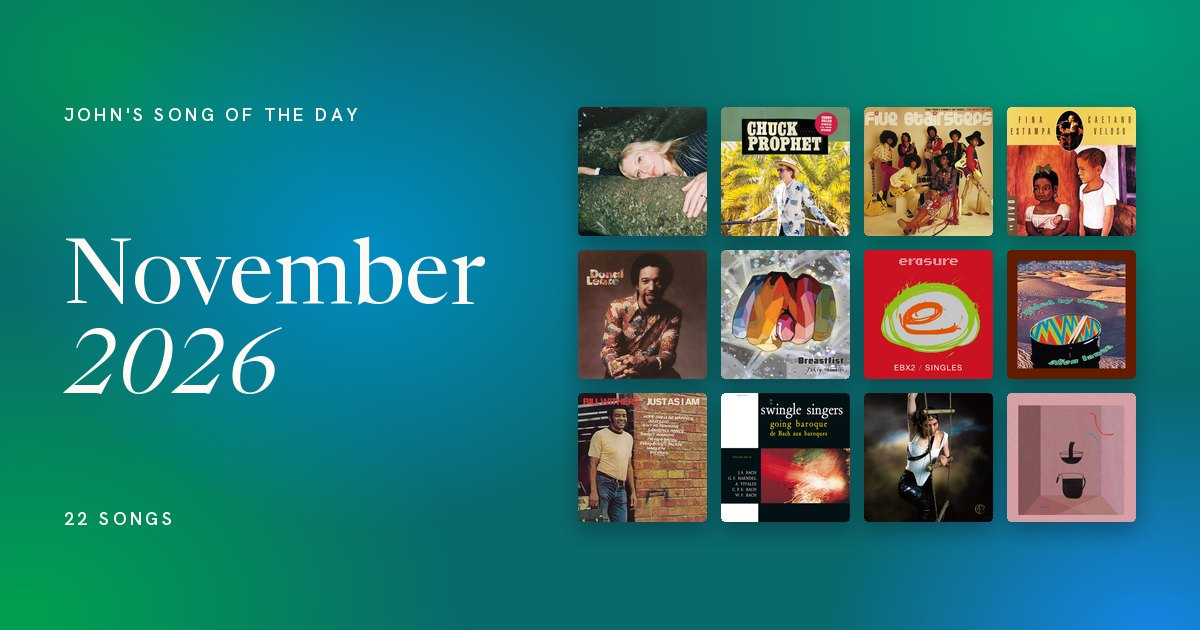
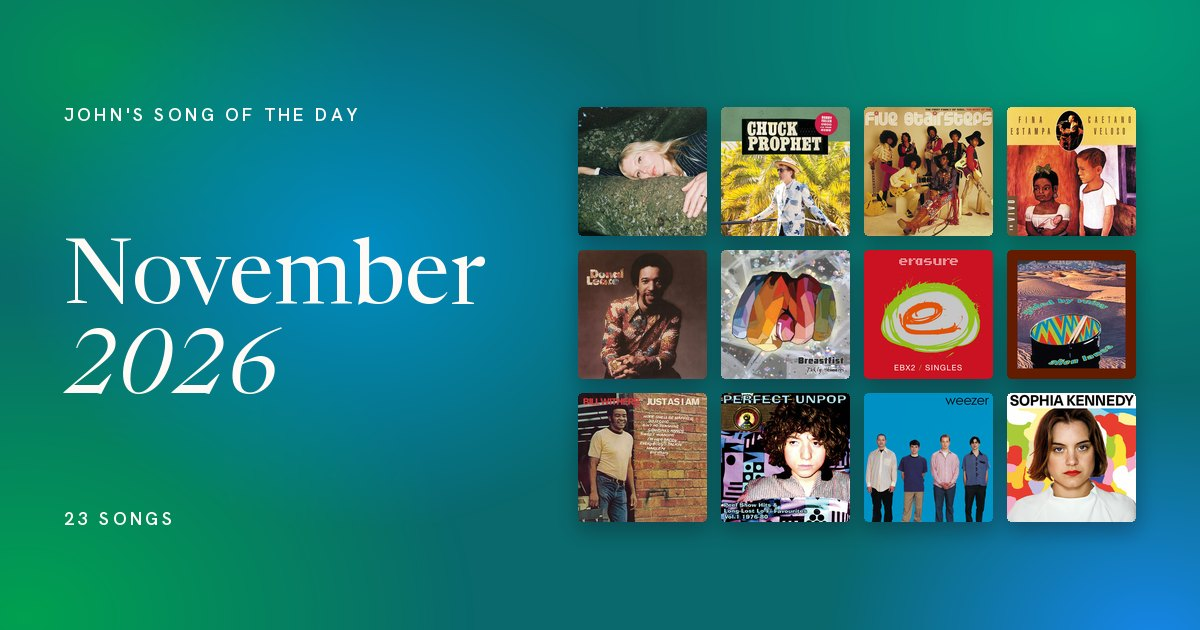
Song moods and genres: John's songs first

Changed region(s): [[0.5858, 0.6032, 0.9558, 0.8444], [0.0617, 0.8143, 0.0925, 0.8444]]

diff --git a/songs/today/index.html b/songs/today/index.html
@@ -3,24 +3,24 @@
 <head>
 <meta charset="utf-8">
 <meta name="viewport" content="width=device-width,initial-scale=1">
-<title>Für Hildegard von Bingen · John's Song of the Day</title>
-<meta name="description" content="Devendra Banhart · John&#x27;s Song of the Day, Sunday 22 November 2026">
+<title>Being Special · John's Song of the Day</title>
+<meta name="description" content="Sophia Kennedy · John&#x27;s Song of the Day, Monday 23 November 2026">
 <link rel="canonical" href="https://cooperking.github.io/songs/today/">
 <meta property="og:type" content="music.song">
 <meta property="og:site_name" content="John's Song of the Day">
-<meta property="og:title" content="Für Hildegard von Bingen">
-<meta property="og:description" content="Devendra Banhart · John&#x27;s Song of the Day, Sunday 22 November 2026">
+<meta property="og:title" content="Being Special">
+<meta property="og:description" content="Sophia Kennedy · John&#x27;s Song of the Day, Monday 23 November 2026">
 <meta property="og:url" content="https://cooperking.github.io/songs/today/">
-<meta property="og:image" content="https://cooperking.github.io/songs/22-11-2026/card.jpg">
-<meta property="og:image:secure_url" content="https://cooperking.github.io/songs/22-11-2026/card.jpg">
+<meta property="og:image" content="https://cooperking.github.io/songs/23-11-2026/card.jpg">
+<meta property="og:image:secure_url" content="https://cooperking.github.io/songs/23-11-2026/card.jpg">
 <meta property="og:image:type" content="image/jpeg">
 <meta property="og:image:width" content="1200">
 <meta property="og:image:height" content="630">
-<meta property="og:image:alt" content="Für Hildegard von Bingen by Devendra Banhart">
-<meta name="twitter:image" content="https://cooperking.github.io/songs/22-11-2026/card.jpg">
+<meta property="og:image:alt" content="Being Special by Sophia Kennedy">
+<meta name="twitter:image" content="https://cooperking.github.io/songs/23-11-2026/card.jpg">
 <meta name="twitter:card" content="summary_large_image">
-<meta name="twitter:title" content="Für Hildegard von Bingen">
-<meta name="twitter:description" content="Devendra Banhart · John&#x27;s Song of the Day, Sunday 22 November 2026">
+<meta name="twitter:title" content="Being Special">
+<meta name="twitter:description" content="Sophia Kennedy · John&#x27;s Song of the Day, Monday 23 November 2026">
 <meta name="theme-color" content="#09696d">
 <link rel="icon" type="image/png" sizes="96x96" href="https://cooperking.github.io/songs/favicon-96.png?v=2">
 <link rel="icon" type="image/png" sizes="192x192" href="https://cooperking.github.io/songs/icon-192.png?v=2">
@@ -28,6 +28,6 @@
 <script>if (!/bot|crawl|spider|preview|facebookexternalhit|facebot|whatsapp|telegram|slack|discord|linkedin|pinterest|embedly|iframely|skype|viber|signal|vkshare|redditbot|applebot|google|bing/i.test(navigator.userAgent)) location.replace("../" + location.search + "#today");</script>
 </head>
 <body style="font-family: Georgia, serif; padding: 24px;">
-<p><a href="../#today">Für Hildegard von Bingen by Devendra Banhart</a>, John's Song of the Day for Sunday 22 November 2026.</p>
+<p><a href="../#today">Being Special by Sophia Kennedy</a>, John's Song of the Day for Monday 23 November 2026.</p>
 </body>
 </html>

diff --git a/songs/23-11-2026/index.html b/songs/23-11-2026/index.html
@@ -1,0 +1,33 @@
+<!doctype html>
+<html lang="en">
+<head>
+<meta charset="utf-8">
+<meta name="viewport" content="width=device-width,initial-scale=1">
+<title>Being Special · John's Song of the Day</title>
+<meta name="description" content="Sophia Kennedy · John&#x27;s Song of the Day, Monday 23 November 2026">
+<link rel="canonical" href="https://cooperking.github.io/songs/23-11-2026/">
+<meta property="og:type" content="music.song">
+<meta property="og:site_name" content="John's Song of the Day">
+<meta property="og:title" content="Being Special">
+<meta property="og:description" content="Sophia Kennedy · John&#x27;s Song of the Day, Monday 23 November 2026">
+<meta property="og:url" content="https://cooperking.github.io/songs/23-11-2026/">
+<meta property="og:image" content="https://cooperking.github.io/songs/23-11-2026/card.jpg">
+<meta property="og:image:secure_url" content="https://cooperking.github.io/songs/23-11-2026/card.jpg">
+<meta property="og:image:type" content="image/jpeg">
+<meta property="og:image:width" content="1200">
+<meta property="og:image:height" content="630">
+<meta property="og:image:alt" content="Being Special by Sophia Kennedy">
+<meta name="twitter:image" content="https://cooperking.github.io/songs/23-11-2026/card.jpg">
+<meta name="twitter:card" content="summary_large_image">
+<meta name="twitter:title" content="Being Special">
+<meta name="twitter:description" content="Sophia Kennedy · John&#x27;s Song of the Day, Monday 23 November 2026">
+<meta name="theme-color" content="#09696d">
+<link rel="icon" type="image/png" sizes="96x96" href="https://cooperking.github.io/songs/favicon-96.png?v=2">
+<link rel="icon" type="image/png" sizes="192x192" href="https://cooperking.github.io/songs/icon-192.png?v=2">
+<link rel="apple-touch-icon" sizes="180x180" href="https://cooperking.github.io/songs/apple-touch-icon.png?v=2">
+<script>if (!/bot|crawl|spider|preview|facebookexternalhit|facebot|whatsapp|telegram|slack|discord|linkedin|pinterest|embedly|iframely|skype|viber|signal|vkshare|redditbot|applebot|google|bing/i.test(navigator.userAgent)) location.replace("../" + location.search + "#23-11-2026");</script>
+</head>
+<body style="font-family: Georgia, serif; padding: 24px;">
+<p><a href="../#23-11-2026">Being Special by Sophia Kennedy</a>, John's Song of the Day for Monday 23 November 2026.</p>
+</body>
+</html>

diff --git a/songs/11-2026/index.html b/songs/11-2026/index.html
@@ -4,12 +4,12 @@
 <meta charset="utf-8">
 <meta name="viewport" content="width=device-width,initial-scale=1">
 <title>November 2026 · John's Song of the Day</title>
-<meta name="description" content="22 songs for each day">
+<meta name="description" content="23 songs for each day">
 <link rel="canonical" href="https://cooperking.github.io/songs/11-2026/">
 <meta property="og:type" content="website">
 <meta property="og:site_name" content="John's Song of the Day">
 <meta property="og:title" content="November 2026">
-<meta property="og:description" content="22 songs for each day">
+<meta property="og:description" content="23 songs for each day">
 <meta property="og:url" content="https://cooperking.github.io/songs/11-2026/">
 <meta property="og:image" content="https://cooperking.github.io/songs/11-2026/card.jpg">
 <meta property="og:image:secure_url" content="https://cooperking.github.io/songs/11-2026/card.jpg">
@@ -26,6 +26,6 @@
 <script>if (!/bot|crawl|spider|preview|facebookexternalhit|facebot|whatsapp|telegram|slack|discord|linkedin|pinterest|embedly|iframely|skype|viber|signal|vkshare|redditbot|applebot|google|bing/i.test(navigator.userAgent)) location.replace("../" + location.search + "#11-2026");</script>
 </head>
 <body style="font-family: Georgia, serif; padding: 24px;">
-<p><a href="../#11-2026">November 2026</a>: 22 songs for each day</p>
+<p><a href="../#11-2026">November 2026</a>: 23 songs for each day</p>
 </body>
 </html>

diff --git a/songs/index.html b/songs/index.html
@@ -4,11 +4,11 @@
 <meta charset="utf-8">
 <meta name="sotd-build" content="bda6aaf01d7f">
 <meta name="viewport" content="width=device-width, initial-scale=1, viewport-fit=cover">
-<meta name="description" content="A song a day, 286 so far">
+<meta name="description" content="A song a day, 287 so far">
 <meta name="theme-color" content="#ec135b">
 <meta property="og:type" content="website">
 <meta property="og:title" content="John’s Song of the Day">
-<meta property="og:description" content="A song a day, 286 so far">
+<meta property="og:description" content="A song a day, 287 so far">
 <meta property="og:url" content="https://cooperking.github.io/songs/">
 <meta property="og:image" content="https://cooperking.github.io/songs/card.jpg">
 <meta property="og:image:type" content="image/jpeg">
